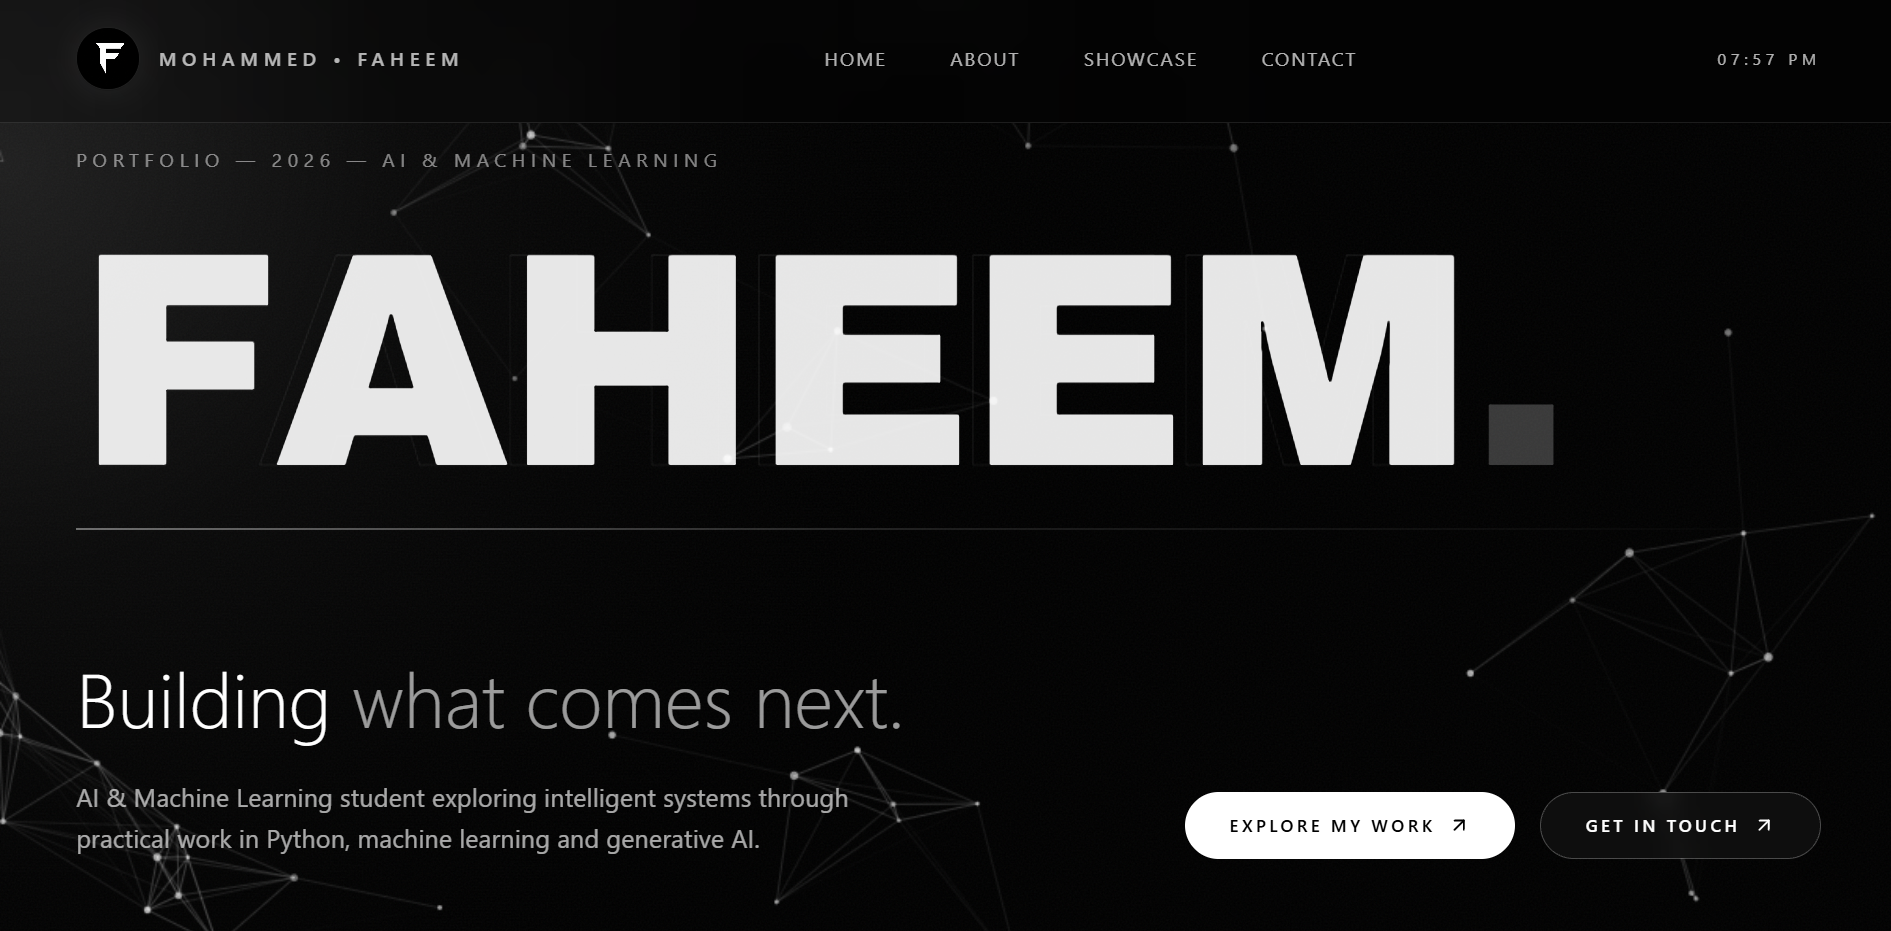
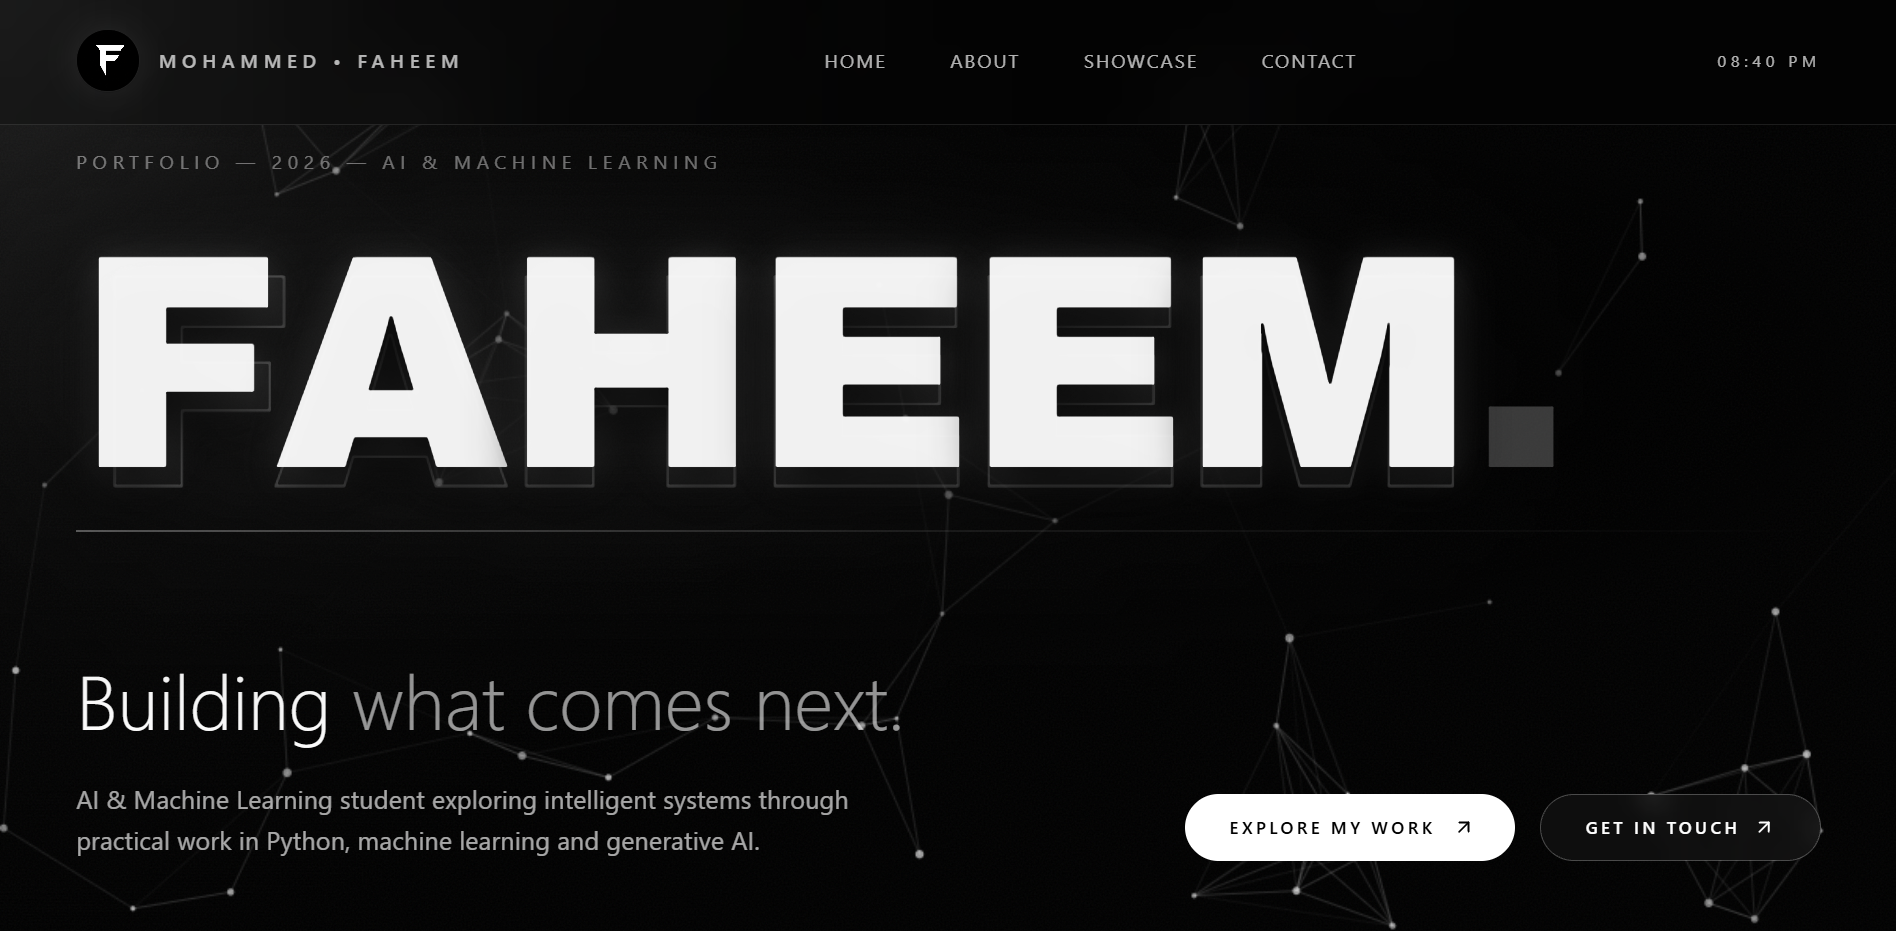
shadow

diff --git a/src/components/HeroName.tsx b/src/components/HeroName.tsx
@@ -60,8 +60,18 @@ function GlitchLetter({ char, index }: { char: string; index: number }) {
       <motion.span
         animate={
           hovered
-            ? { color: "#ffffff", textShadow: "0 0 18px rgba(255,255,255,0.45)", scaleY: 1.04 }
-            : { color: "rgba(255,255,255,0.90)", textShadow: "none", scaleY: 1 }
+            ? {
+                color: "#ffffff",
+                textShadow:
+                  "0 14px 36px rgba(0,0,0,0.95), 0 0 28px rgba(255,255,255,0.55)",
+                scaleY: 1.04,
+              }
+            : {
+                color: "rgba(255,255,255,0.94)",
+                textShadow:
+                  "0 14px 32px rgba(0,0,0,0.95), 0 4px 22px rgba(255,255,255,0.22)",
+                scaleY: 1,
+              }
         }
         transition={{ duration: 0.18 }}
         style={{ display: "inline-block" }}
@@ -78,19 +88,30 @@ export default function HeroName() {
       className="relative mt-6 select-none"
       style={{ perspective: "600px" }}
     >
-      {/* Faint stroke ghost for depth */}
+      {/* Soft ambient shadow behind name */}
+      <div
+        aria-hidden
+        className="absolute -inset-x-8 -inset-y-6 pointer-events-none blur-3xl opacity-85"
+        style={{
+          background:
+            "radial-gradient(ellipse at 32% 50%, rgba(255,255,255,0.16) 0%, rgba(0,0,0,0.7) 55%, transparent 78%)",
+        }}
+      />
+
+      {/* Offset stroke shadow for depth */}
       <div
         aria-hidden
         className="absolute inset-0 pointer-events-none"
         style={{
-          WebkitTextStroke: "1px rgba(255,255,255,0.06)",
-          color: "transparent",
+          WebkitTextStroke: "1.5px rgba(255,255,255,0.22)",
+          color: "rgba(255,255,255,0.04)",
           fontSize: "clamp(4.5rem, 20vw, 12rem)",
           fontFamily: "'Archivo', sans-serif",
           fontWeight: 900,
           letterSpacing: "-0.02em",
           userSelect: "none",
           lineHeight: 1,
+          transform: "translate(10px, 12px)",
         }}
       >
         FAHEEM
